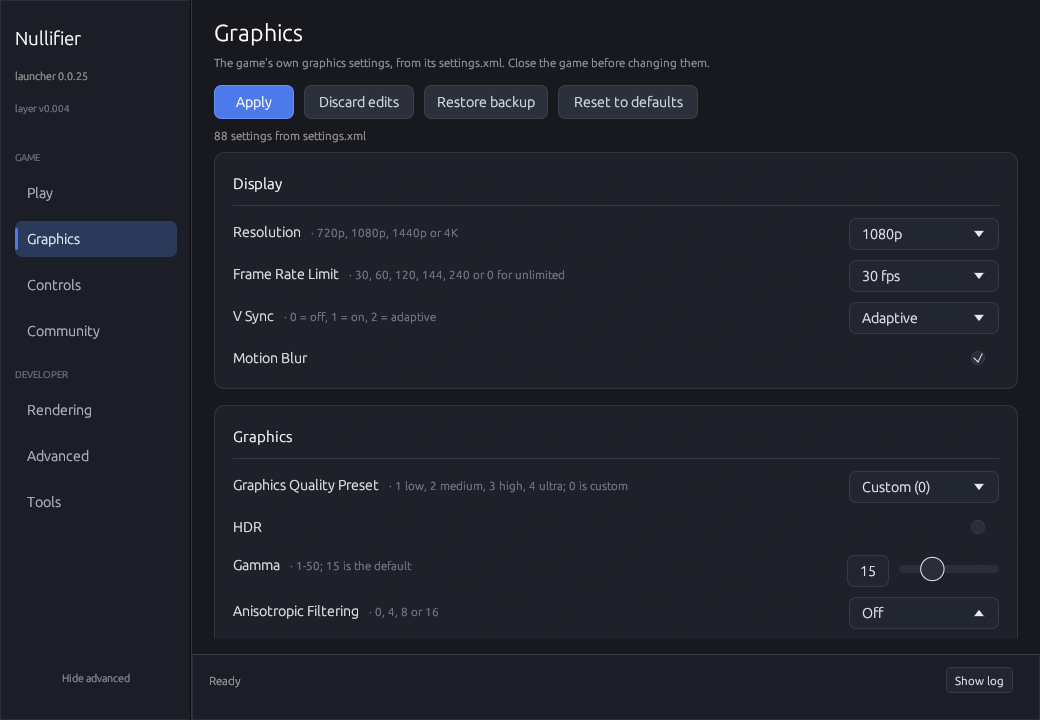
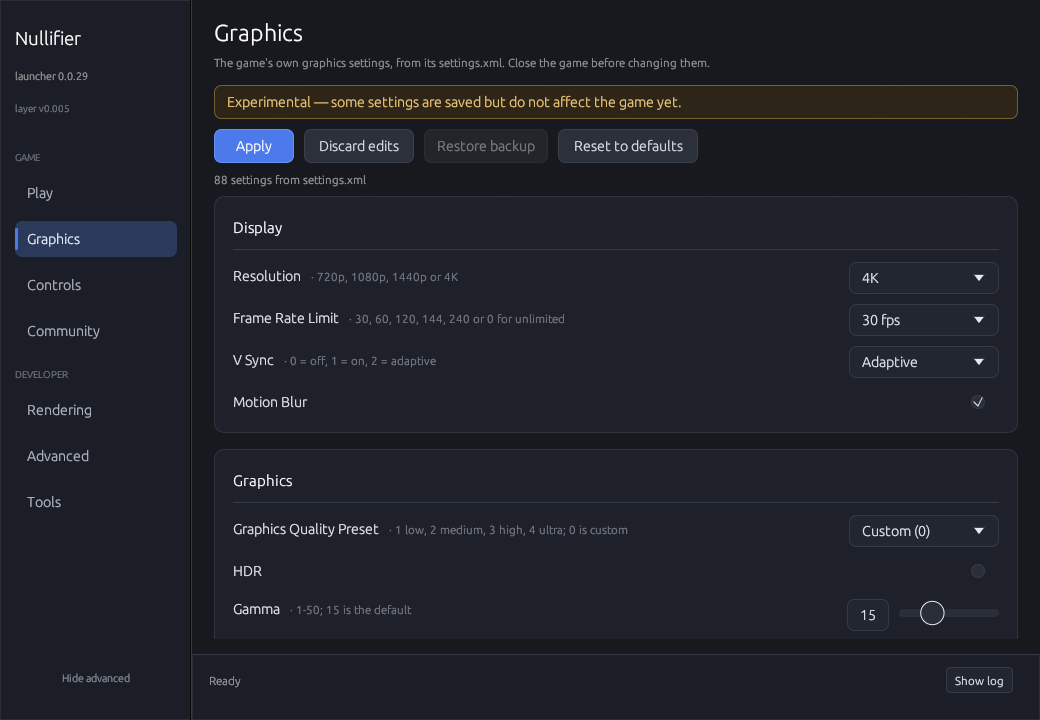
launcher: a one-line experimental note on Graphics
The page edits the title's own settings and some of them are saved without
changing the picture yet. Say so in one amber line instead of the old
paragraph and modal, and keep the rest of the page clean.

Rebased over #46 (layer 0.005).

0.0.29

diff --git a/tools/launcher/src/main.rs b/tools/launcher/src/main.rs
@@ -2735,6 +2735,19 @@ impl App {
             "Graphics",
             "The game's own graphics settings, from its settings.xml. Close the game before changing them.",
         );
+        egui::Frame::group(ui.style())
+            .fill(egui::Color32::from_rgb(45, 38, 24))
+            .stroke(egui::Stroke::new(1.0_f32, egui::Color32::from_rgb(120, 95, 45)))
+            .inner_margin(egui::Margin::symmetric(12, 8))
+            .show(ui, |ui| {
+                ui.set_width(ui.available_width());
+                ui.label(
+                    egui::RichText::new(
+                        "Experimental — some settings are saved but do not affect the game yet.",
+                    )
+                    .color(egui::Color32::from_rgb(240, 200, 120)),
+                );
+            });
         let running = self.running();
         let mut reload = false;
         let mut advanced_open = self.game_advanced_open;
